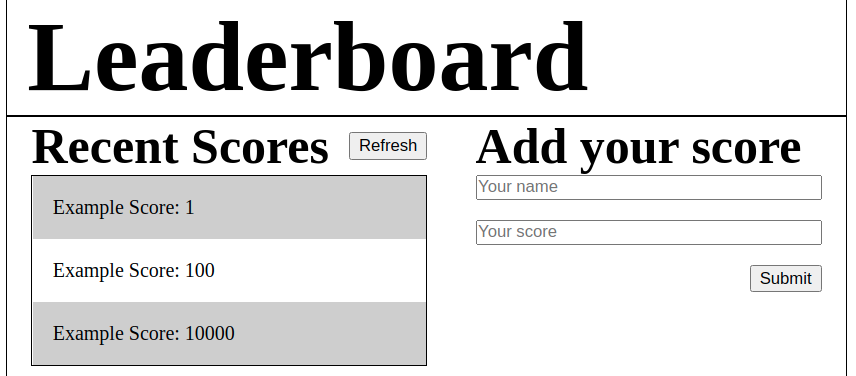
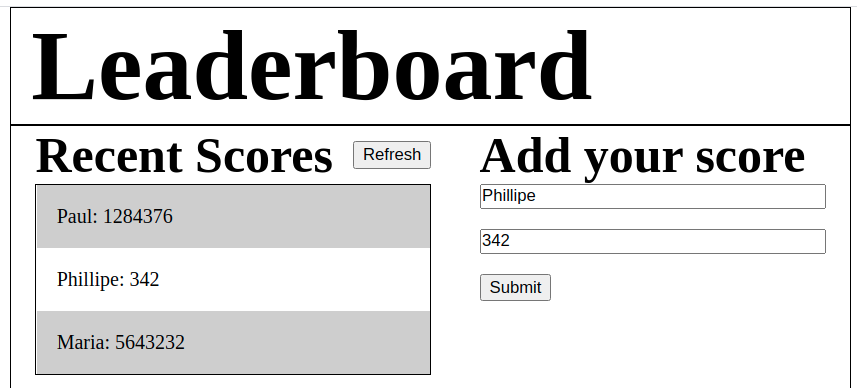
a monster commit!

diff --git a/src/backend/api.js b/src/backend/api.js
@@ -1,4 +1,5 @@
 /* eslint-disable prefer-destructuring */
+import { refreshList } from '../frontend/list';
 
 export default class APIHandler {
   constructor() {
@@ -11,7 +12,7 @@ export default class APIHandler {
       {
         method: 'POST',
         headers: {
-          'Content-Type': 'application/json;',
+          'Content-Type': 'application/json',
         },
         body: JSON.stringify({
           name: title,
@@ -20,36 +21,44 @@ export default class APIHandler {
     );
 
     const data = await result.json();
-
     this.gameID = data.result.split(' ')[3];
+    this.gameIDtoStorage();
+    this.getList();
   };
 
-  gameIDtoStorage = (gameID) => {
-    const stringy = JSON.stringify({ gameID });
+  setGameId = (gameID) => {
+    this.gameID = gameID;
+  }
+
+  gameIDtoStorage = () => {
+    const stringy = JSON.stringify({ gameID: this.gameID });
     localStorage.setItem('gameID', stringy);
   }
 
   gameIDfromStorage = (key) => {
     const object = JSON.parse(localStorage.getItem(key));
-    return object.gameID;
+    return object?.gameID;
   }
 
-  refreshList = async (gameID) => {
+  getList = async () => {
+    const gameID = this.gameIDfromStorage('gameID');
     const result = await fetch(`https://us-central1-js-capstone-backend.cloudfunctions.net/api/games/${gameID}/scores`);
 
-    return result.json();
+    const list = await result.json();
+    refreshList(list.result);
   }
 
-  addScore = async (gameID, name, score) => {
+  addScore = async (user, score) => {
+    const gameID = this.gameIDfromStorage('gameID');
     const result = await fetch(
       `https://us-central1-js-capstone-backend.cloudfunctions.net/api/games/${gameID}/scores`,
       {
         method: 'POST',
         headers: {
-          'Content-Type': 'application/json;',
+          'Content-Type': 'application/json',
         },
         body: JSON.stringify({
-          name,
+          user,
           score,
         }),
       },

diff --git a/src/frontend/list.js b/src/frontend/list.js
@@ -1,0 +1,40 @@
+const createLi = (user, score) => {
+  const li = document.createElement('li');
+  const p = document.createElement('p');
+  p.innerText = `${user}: ${score}`;
+  li.appendChild(p);
+
+  return li;
+};
+
+const refreshList = (objList) => {
+  const ul = document.getElementById('ul-list');
+  ul.innerHTML = '';
+
+  objList.forEach((obj) => ul.appendChild(createLi(obj.user, obj.score)));
+};
+
+const setRefreshBtn = (api) => {
+  const btn = document.getElementById('refresh-btn');
+  btn.addEventListener('click', () => {
+    api.getList();
+  });
+};
+
+const addToList = (user, score) => {
+  const ul = document.getElementById('ul-list');
+  ul.appendChild(createLi(user, score));
+};
+
+const setAddBtn = (api) => {
+  const enterName = document.getElementById('enter-name');
+  const enterScore = document.getElementById('enter-score');
+  const addBtn = document.getElementById('add-btn');
+
+  addBtn.addEventListener('click', () => {
+    api.addScore(enterName.value, enterScore.value);
+    addToList(enterName.value, enterScore.value);
+  });
+};
+
+export { refreshList, setAddBtn, setRefreshBtn };

diff --git a/index.html b/index.html
@@ -14,7 +14,7 @@
     <section id='section-list'>
       <div id='title-n-btn'>
         <h3>Recent Scores</h3>
-        <button type="button">Refresh</button>
+        <button type="button" id='refresh-btn'>Refresh</button>
       </div>
       <ul id='ul-list'>
       </ul>
@@ -23,7 +23,7 @@
       <h3>Add your score</h3>
       <input id='enter-name' type='text' name='player-name' placeholder='Your name'/>
       <input id='enter-score' type='text' name='player-score' placeholder='Your score'/>
-      <button type="button" id='submit-score'>Submit</button>
+      <button type="button" id='add-btn'>Submit</button>
     </section>
   </main>  
 </body>

diff --git a/src/index.js b/src/index.js
@@ -1,1 +1,16 @@
 import './styles.scss';
+import APIHandler from './backend/api';
+import { setRefreshBtn, setAddBtn } from './frontend/list';
+
+const run = () => {
+  const api = new APIHandler();
+  const local = api.gameIDfromStorage('gameID');
+
+  api.gameID = local !== undefined ? local : api.createGame('Scory');
+
+  api.getList();
+  setRefreshBtn(api);
+  setAddBtn(api);
+};
+
+run();

diff --git a/src/styles.scss b/src/styles.scss
@@ -88,6 +88,6 @@ input {
   align-items: center;
 }
 
-#submit-score {
+#score-btn {
   align-self: flex-end;
 }

diff --git a/README.md b/README.md
@@ -6,12 +6,12 @@
 
 ![screenshot](./app_screenshot.png)
 
-Only framework is available for now
-
+Features:
+- API calls using async and fetch
 ## Built With
 
 - Webpack
-- HMTL
+- Javascript
 - Sass
 ## Live Demo
 
@@ -31,7 +31,8 @@ To get a local copy up and running follow these simple example steps.
 ### Install
 - In the cloned project folder, run 'npx webpack serve'
 ### Usage
-- No usable features yet
+- To add a new score, just type a name and a score in the corresponding fields and hit 'Submit'
+- the game ID is saved in localStorage, so that the same game can be referenced multiple times
 ### Run tests
 - No tests yet
 
